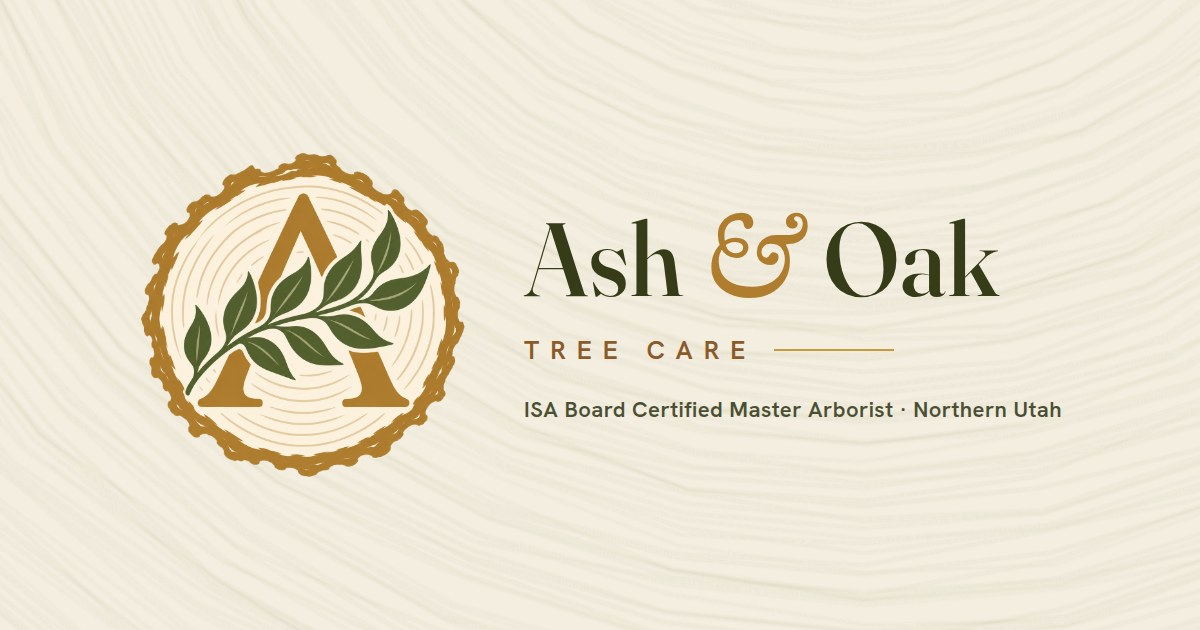
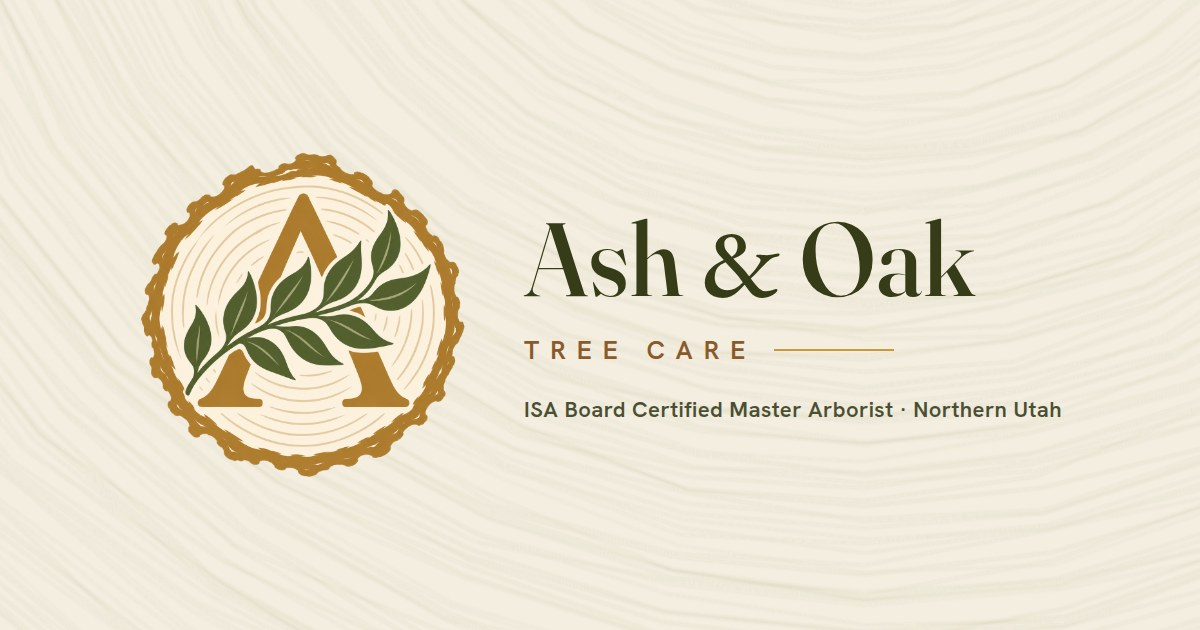
Wordmark ampersand: Ben's pick, plain EB Garamond in word color
Replaces the gold italic swash with a simple classic serif &, same color as the
words. Still loads only the & glyph.

Changed region(s): [[0.5858, 0.3317, 0.8325, 0.4825]]

diff --git a/404.html b/404.html
@@ -7,7 +7,7 @@
 <link rel="preconnect" href="https://fonts.googleapis.com">
 <link rel="preconnect" href="https://fonts.gstatic.com" crossorigin>
 <link href="https://fonts.googleapis.com/css2?family=Fraunces:opsz,ital,wght@9..144,0,400;9..144,0,500;9..144,1,400&family=Hanken+Grotesk:wght@400;500;600&display=swap" rel="stylesheet">
-<link href="https://fonts.googleapis.com/css2?family=EB+Garamond:ital,wght@1,500&text=%26&display=swap" rel="stylesheet">
+<link href="https://fonts.googleapis.com/css2?family=EB+Garamond:wght@500&text=%26&display=swap" rel="stylesheet">
 <link rel="stylesheet" href="assets/css/site.css">
 <link rel="icon" href="assets/img/favicon.png" type="image/png">
 <meta name="google-site-verification" content="_ZiBYzDWsMgUM7eQnnClOjlQphIMs3wj52PhRt4jDVY">

diff --git a/commercial-design.html b/commercial-design.html
@@ -7,7 +7,7 @@
 <link rel="preconnect" href="https://fonts.googleapis.com">
 <link rel="preconnect" href="https://fonts.gstatic.com" crossorigin>
 <link href="https://fonts.googleapis.com/css2?family=Fraunces:opsz,ital,wght@9..144,0,400;9..144,0,500;9..144,1,400&family=Hanken+Grotesk:wght@400;500;600&display=swap" rel="stylesheet">
-<link href="https://fonts.googleapis.com/css2?family=EB+Garamond:ital,wght@1,500&text=%26&display=swap" rel="stylesheet">
+<link href="https://fonts.googleapis.com/css2?family=EB+Garamond:wght@500&text=%26&display=swap" rel="stylesheet">
 <link rel="stylesheet" href="assets/css/site.css">
 <link rel="icon" href="assets/img/favicon.png" type="image/png">
 <meta name="google-site-verification" content="_ZiBYzDWsMgUM7eQnnClOjlQphIMs3wj52PhRt4jDVY">

diff --git a/contact.html b/contact.html
@@ -7,7 +7,7 @@
 <link rel="preconnect" href="https://fonts.googleapis.com">
 <link rel="preconnect" href="https://fonts.gstatic.com" crossorigin>
 <link href="https://fonts.googleapis.com/css2?family=Fraunces:opsz,ital,wght@9..144,0,400;9..144,0,500;9..144,1,400&family=Hanken+Grotesk:wght@400;500;600&display=swap" rel="stylesheet">
-<link href="https://fonts.googleapis.com/css2?family=EB+Garamond:ital,wght@1,500&text=%26&display=swap" rel="stylesheet">
+<link href="https://fonts.googleapis.com/css2?family=EB+Garamond:wght@500&text=%26&display=swap" rel="stylesheet">
 <link rel="stylesheet" href="assets/css/site.css">
 <link rel="icon" href="assets/img/favicon.png" type="image/png">
 <meta name="google-site-verification" content="_ZiBYzDWsMgUM7eQnnClOjlQphIMs3wj52PhRt4jDVY">

diff --git a/faq.html b/faq.html
@@ -7,7 +7,7 @@
 <link rel="preconnect" href="https://fonts.googleapis.com">
 <link rel="preconnect" href="https://fonts.gstatic.com" crossorigin>
 <link href="https://fonts.googleapis.com/css2?family=Fraunces:opsz,ital,wght@9..144,0,400;9..144,0,500;9..144,1,400&family=Hanken+Grotesk:wght@400;500;600&display=swap" rel="stylesheet">
-<link href="https://fonts.googleapis.com/css2?family=EB+Garamond:ital,wght@1,500&text=%26&display=swap" rel="stylesheet">
+<link href="https://fonts.googleapis.com/css2?family=EB+Garamond:wght@500&text=%26&display=swap" rel="stylesheet">
 <link rel="stylesheet" href="assets/css/site.css">
 <link rel="icon" href="assets/img/favicon.png" type="image/png">
 <meta name="google-site-verification" content="_ZiBYzDWsMgUM7eQnnClOjlQphIMs3wj52PhRt4jDVY">

diff --git a/pay.html b/pay.html
@@ -7,7 +7,7 @@
 <link rel="preconnect" href="https://fonts.googleapis.com">
 <link rel="preconnect" href="https://fonts.gstatic.com" crossorigin>
 <link href="https://fonts.googleapis.com/css2?family=Fraunces:opsz,ital,wght@9..144,0,400;9..144,0,500;9..144,1,400&family=Hanken+Grotesk:wght@400;500;600&display=swap" rel="stylesheet">
-<link href="https://fonts.googleapis.com/css2?family=EB+Garamond:ital,wght@1,500&text=%26&display=swap" rel="stylesheet">
+<link href="https://fonts.googleapis.com/css2?family=EB+Garamond:wght@500&text=%26&display=swap" rel="stylesheet">
 <link rel="stylesheet" href="assets/css/site.css">
 <link rel="icon" href="assets/img/favicon.png" type="image/png">
 <meta name="google-site-verification" content="_ZiBYzDWsMgUM7eQnnClOjlQphIMs3wj52PhRt4jDVY">

diff --git a/privacy.html b/privacy.html
@@ -7,7 +7,7 @@
 <link rel="preconnect" href="https://fonts.googleapis.com">
 <link rel="preconnect" href="https://fonts.gstatic.com" crossorigin>
 <link href="https://fonts.googleapis.com/css2?family=Fraunces:opsz,ital,wght@9..144,0,400;9..144,0,500;9..144,1,400&family=Hanken+Grotesk:wght@400;500;600&display=swap" rel="stylesheet">
-<link href="https://fonts.googleapis.com/css2?family=EB+Garamond:ital,wght@1,500&text=%26&display=swap" rel="stylesheet">
+<link href="https://fonts.googleapis.com/css2?family=EB+Garamond:wght@500&text=%26&display=swap" rel="stylesheet">
 <link rel="stylesheet" href="assets/css/site.css">
 <link rel="icon" href="assets/img/favicon.png" type="image/png">
 <meta name="google-site-verification" content="_ZiBYzDWsMgUM7eQnnClOjlQphIMs3wj52PhRt4jDVY">

diff --git a/request-quote-thanks.html b/request-quote-thanks.html
@@ -7,7 +7,7 @@
 <link rel="preconnect" href="https://fonts.googleapis.com">
 <link rel="preconnect" href="https://fonts.gstatic.com" crossorigin>
 <link href="https://fonts.googleapis.com/css2?family=Fraunces:opsz,ital,wght@9..144,0,400;9..144,0,500;9..144,1,400&family=Hanken+Grotesk:wght@400;500;600&display=swap" rel="stylesheet">
-<link href="https://fonts.googleapis.com/css2?family=EB+Garamond:ital,wght@1,500&text=%26&display=swap" rel="stylesheet">
+<link href="https://fonts.googleapis.com/css2?family=EB+Garamond:wght@500&text=%26&display=swap" rel="stylesheet">
 <link rel="stylesheet" href="assets/css/site.css">
 <link rel="icon" href="assets/img/favicon.png" type="image/png">
 <meta name="google-site-verification" content="_ZiBYzDWsMgUM7eQnnClOjlQphIMs3wj52PhRt4jDVY">

diff --git a/request-quote.html b/request-quote.html
@@ -7,7 +7,7 @@
 <link rel="preconnect" href="https://fonts.googleapis.com">
 <link rel="preconnect" href="https://fonts.gstatic.com" crossorigin>
 <link href="https://fonts.googleapis.com/css2?family=Fraunces:opsz,ital,wght@9..144,0,400;9..144,0,500;9..144,1,400&family=Hanken+Grotesk:wght@400;500;600&display=swap" rel="stylesheet">
-<link href="https://fonts.googleapis.com/css2?family=EB+Garamond:ital,wght@1,500&text=%26&display=swap" rel="stylesheet">
+<link href="https://fonts.googleapis.com/css2?family=EB+Garamond:wght@500&text=%26&display=swap" rel="stylesheet">
 <link rel="stylesheet" href="assets/css/site.css">
 <link rel="icon" href="assets/img/favicon.png" type="image/png">
 <meta name="google-site-verification" content="_ZiBYzDWsMgUM7eQnnClOjlQphIMs3wj52PhRt4jDVY">

diff --git a/residential-design.html b/residential-design.html
@@ -7,7 +7,7 @@
 <link rel="preconnect" href="https://fonts.googleapis.com">
 <link rel="preconnect" href="https://fonts.gstatic.com" crossorigin>
 <link href="https://fonts.googleapis.com/css2?family=Fraunces:opsz,ital,wght@9..144,0,400;9..144,0,500;9..144,1,400&family=Hanken+Grotesk:wght@400;500;600&display=swap" rel="stylesheet">
-<link href="https://fonts.googleapis.com/css2?family=EB+Garamond:ital,wght@1,500&text=%26&display=swap" rel="stylesheet">
+<link href="https://fonts.googleapis.com/css2?family=EB+Garamond:wght@500&text=%26&display=swap" rel="stylesheet">
 <link rel="stylesheet" href="assets/css/site.css">
 <link rel="icon" href="assets/img/favicon.png" type="image/png">
 <meta name="google-site-verification" content="_ZiBYzDWsMgUM7eQnnClOjlQphIMs3wj52PhRt4jDVY">

diff --git a/service-areas.html b/service-areas.html
@@ -7,7 +7,7 @@
 <link rel="preconnect" href="https://fonts.googleapis.com">
 <link rel="preconnect" href="https://fonts.gstatic.com" crossorigin>
 <link href="https://fonts.googleapis.com/css2?family=Fraunces:opsz,ital,wght@9..144,0,400;9..144,0,500;9..144,1,400&family=Hanken+Grotesk:wght@400;500;600&display=swap" rel="stylesheet">
-<link href="https://fonts.googleapis.com/css2?family=EB+Garamond:ital,wght@1,500&text=%26&display=swap" rel="stylesheet">
+<link href="https://fonts.googleapis.com/css2?family=EB+Garamond:wght@500&text=%26&display=swap" rel="stylesheet">
 <link rel="stylesheet" href="assets/css/site.css">
 <link rel="icon" href="assets/img/favicon.png" type="image/png">
 <meta name="google-site-verification" content="_ZiBYzDWsMgUM7eQnnClOjlQphIMs3wj52PhRt4jDVY">

diff --git a/services.html b/services.html
@@ -7,7 +7,7 @@
 <link rel="preconnect" href="https://fonts.googleapis.com">
 <link rel="preconnect" href="https://fonts.gstatic.com" crossorigin>
 <link href="https://fonts.googleapis.com/css2?family=Fraunces:opsz,ital,wght@9..144,0,400;9..144,0,500;9..144,1,400&family=Hanken+Grotesk:wght@400;500;600&display=swap" rel="stylesheet">
-<link href="https://fonts.googleapis.com/css2?family=EB+Garamond:ital,wght@1,500&text=%26&display=swap" rel="stylesheet">
+<link href="https://fonts.googleapis.com/css2?family=EB+Garamond:wght@500&text=%26&display=swap" rel="stylesheet">
 <link rel="stylesheet" href="assets/css/site.css">
 <link rel="icon" href="assets/img/favicon.png" type="image/png">
 <meta name="google-site-verification" content="_ZiBYzDWsMgUM7eQnnClOjlQphIMs3wj52PhRt4jDVY">

diff --git a/index.html b/index.html
@@ -34,7 +34,7 @@
 <link rel="preconnect" href="https://fonts.googleapis.com">
 <link rel="preconnect" href="https://fonts.gstatic.com" crossorigin>
 <link href="https://fonts.googleapis.com/css2?family=Fraunces:opsz,ital,wght@9..144,0,400;9..144,0,500;9..144,1,400&family=Hanken+Grotesk:wght@400;500;600&display=swap" rel="stylesheet">
-<link href="https://fonts.googleapis.com/css2?family=EB+Garamond:ital,wght@1,500&text=%26&display=swap" rel="stylesheet">
+<link href="https://fonts.googleapis.com/css2?family=EB+Garamond:wght@500&text=%26&display=swap" rel="stylesheet">
 
 <link rel="stylesheet" href="assets/css/site.css">
 
